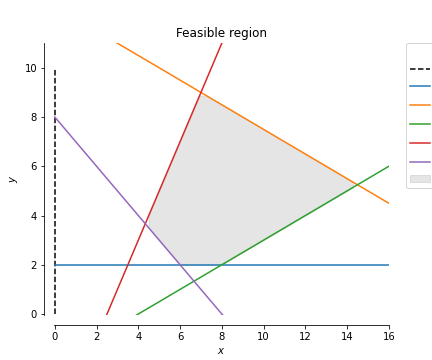
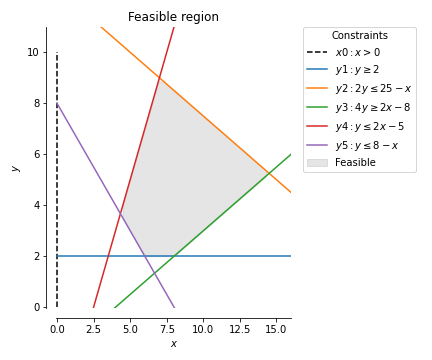
Add tight_layout to include legend in saved fig.

diff --git a/feasible/fr_plotting.py b/feasible/fr_plotting.py
@@ -135,4 +135,6 @@ def plot_feasible_region_2D(ax, x, constraints,
     ax.legend(title='Constraints',
               bbox_to_anchor=(1.05, 1),
               loc=2, borderaxespad=0.)
+    plt.tight_layout()
+    
     return ax

diff --git a/README.md b/README.md
@@ -2,7 +2,7 @@
 A functional implementation for producing the feasible region plot given a dictionary of constraints.
 
 ## Function:
-* `feasible.feasible.plot_feasible_region_2D`
+* `feasible.fr_plotting.plot_feasible_region_2D`
 
 ## Workflow:
 * Prep input dict(s)
